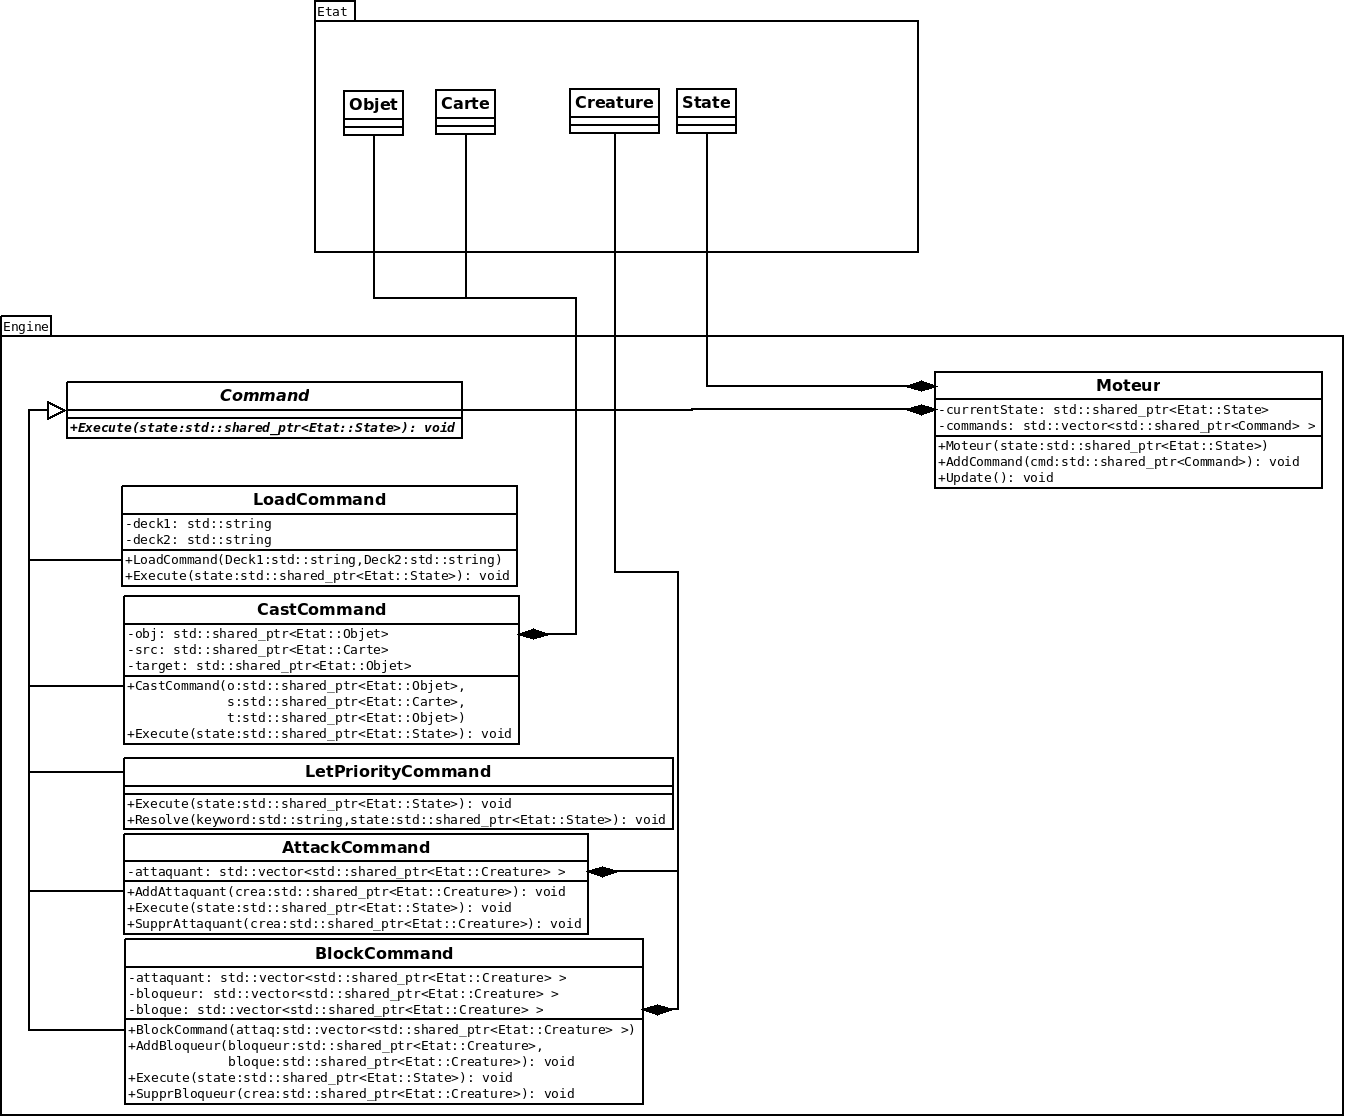
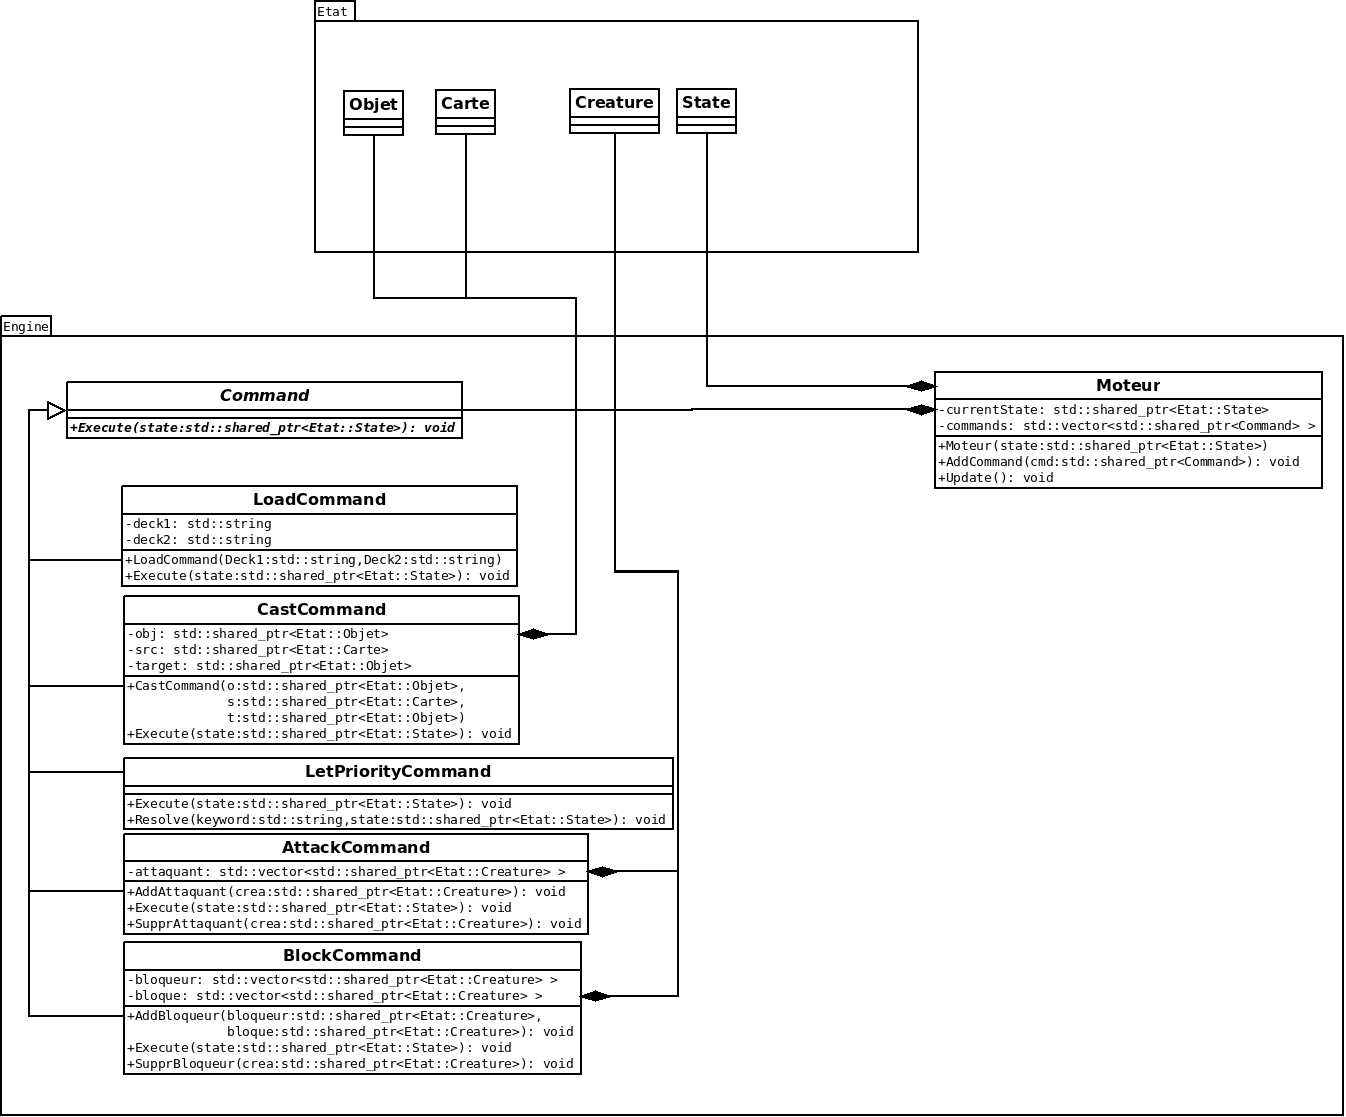
debut IA heuristique

Changed region(s): [[0.0624, 0.8218, 0.4993, 1.0]]

diff --git a/src/shared/Engine/BlockCommand.cpp b/src/shared/Engine/BlockCommand.cpp
@@ -4,10 +4,6 @@
 
 namespace Engine
 {
-    BlockCommand::BlockCommand (std::vector<std::shared_ptr<Etat::Creature> > attaq)
-    {
-        attaquant = attaq;
-    }
     void BlockCommand::SupprBloqueur (std::shared_ptr<Etat::Creature> crea)
     {
         int ind=-1;
@@ -26,6 +22,7 @@ namespace Engine
         bloqueur.push_back(crea_bloqueur);
         bloque.push_back(crea_bloque);
     }
+    
     void BlockCommand::Execute (std::shared_ptr<Etat::State> state)
     {
         // les creatures bloqueuse inflige leur blessure aux creatures bloques
@@ -34,20 +31,20 @@ namespace Engine
          
         // les creatures bloques infliges leurs blessures aux creature bloqueuses
         // dans l'ordre des creatures qui bloque et si ça depasse aux creatures suivantes
-        for( int i = 0 ; i < (int)attaquant.size() ; i++ )
+        for( int i = 0 ; i < (int)state->GetAttaquants().size() ; i++ )
         {
             bool isBlocked = false;
             
             for ( int j = 0 ; j < (int)bloque.size() ; j++ )
-                if ( attaquant[i] == bloque[j] )
+                if ( state->GetAttaquants()[i] == bloque[j] )
                     isBlocked = true;
             
-            int dmgToDeal = attaquant[i]->GetForce();    
+            int dmgToDeal = state->GetAttaquants()[i]->GetForce();    
             
             if ( isBlocked )
             {
                 for ( int j = 0 ; j < (int)bloque.size() ; j++ )
-                    if ( attaquant[i] == bloque[j] && dmgToDeal > 0 )
+                    if ( state->GetAttaquants()[i] == bloque[j] && dmgToDeal > 0 )
                     {
                         if ( dmgToDeal >= bloqueur[j]->GetEndurance() )
                         {

diff --git a/src/shared/IA/IA_heuristique.cpp b/src/shared/IA/IA_heuristique.cpp
@@ -1,0 +1,53 @@
+#include "IA_heuristique.h"
+#include "Engine/BlockCommand.h"
+#include <iostream>
+#include <ctime>
+#include <Engine/CastCommand.h>
+#include <Engine/LetPriorityCommand.h>
+#include <Engine/AttackCommand.h>
+#include <cstdlib>
+#include <ctime>
+
+
+
+
+namespace IA {
+
+    IA_heuristique::IA_heuristique(std::shared_ptr<Etat::State> state, std::shared_ptr<Engine::Moteur> moteur)
+    {
+        currentState = state;
+        engine = moteur;
+
+    }
+
+    void IA_heuristique::Think()
+    {
+        std::vector<int> list_val_cmd;
+        std::vector<std::shared_ptr<Engine::Command> > list_cmd;
+    }
+    
+    std::vector<std::shared_ptr<Engine::Command> > IA_heuristique::GetListCommand()
+    {
+       std::vector<std::shared_ptr<Engine::Command> > sortie;
+       
+       return sortie;
+    }
+    
+    int IA_heuristique::EvalCmd(std::shared_ptr<Engine::Command> cmd)
+    {
+        return 0;
+    }
+    
+    std::shared_ptr<Engine::Command> IA_heuristique::PhaseAttaque()
+    {
+        return std::shared_ptr<Engine::AttackCommand>(new Engine::AttackCommand());
+    }
+    
+    std::shared_ptr<Engine::Command> IA_heuristique::PhaseBloqueur()
+    {
+        return std::shared_ptr<Engine::BlockCommand>(new Engine::BlockCommand());
+    }
+
+}
+
+

diff --git a/src/shared/IA/IA_heuristique.h b/src/shared/IA/IA_heuristique.h
@@ -1,0 +1,34 @@
+#ifndef IA_HEURISTIQUE_H
+#define IA_HEURISTIQUE_H
+
+#include <vector>
+#include <memory>
+
+#include <Etat/State.h>
+#include <Engine/Moteur.h>
+
+namespace IA {
+
+  /// class IA_base - 
+  class IA_heuristique {
+    // Associations
+    // Attributes
+  private:
+    std::shared_ptr<Etat::State> currentState;
+    std::shared_ptr<Engine::Moteur> engine;
+    // Operations
+  public:
+    IA_heuristique (std::shared_ptr<Etat::State> state, std::shared_ptr<Engine::Moteur> moteur);
+    void Think();
+    std::vector<std::shared_ptr<Engine::Command> > GetListCommand(); // eventuellement mettre un std::shared_ptr<Etat::State> en param pour plus tard...
+    int EvalCmd(std::shared_ptr<Engine::Command> cmd);
+    std::shared_ptr<Engine::Command> PhaseAttaque();
+    std::shared_ptr<Engine::Command> PhaseBloqueur();
+    
+    // Setters and Getters
+  };
+
+};
+
+#endif
+

diff --git a/src/shared/Etat/State.h b/src/shared/Etat/State.h
@@ -9,11 +9,13 @@
 namespace Etat {
   class Objet;
   class Carte;
+  class Creature;
   class Joueur;
 }
 
 #include "Objet.h"
 #include "Carte.h"
+#include "Creature.h"
 #include "Joueur.h"
 
 namespace Etat {
@@ -30,6 +32,7 @@ namespace Etat {
     std::vector<std::shared_ptr<Objet> > pile;
     std::vector<std::shared_ptr<Carte> > battlefield;
     int nbJoueur;
+    std::vector<std::shared_ptr<Creature> > list_attaquant;
     // Operations
   public:
     State (int nb = 2);
@@ -47,6 +50,8 @@ namespace Etat {
     int GetPriority () const;
     bool GetPileEmpty () const;
     int GetJoueurTour () const;
+    void AddListAttaquant (std::shared_ptr<Creature> crea);
+    std::vector<std::shared_ptr<Creature> > GetAttaquants () const;
     // Setters and Getters
   };
 

diff --git a/src/Test/Test/TestEngine.cpp b/src/Test/Test/TestEngine.cpp
@@ -159,7 +159,7 @@ namespace Test
                             attaquant.push_back(Ours2);
                             attaquant.push_back(Ours3);
                     
-                            std::shared_ptr<Engine::BlockCommand> bloque (std::shared_ptr<Engine::BlockCommand>(new Engine::BlockCommand(attaquant)));
+                            std::shared_ptr<Engine::BlockCommand> bloque (std::shared_ptr<Engine::BlockCommand>(new Engine::BlockCommand()));
                             bloque->AddBloqueur(Ours1,Ours3);
                             moteur.AddCommand(bloque);
                             

diff --git a/src/shared/Engine/BlockCommand.h b/src/shared/Engine/BlockCommand.h
@@ -24,12 +24,10 @@ namespace Engine {
     // Associations
     // Attributes
   private:
-    std::vector<std::shared_ptr<Etat::Creature> > attaquant;
     std::vector<std::shared_ptr<Etat::Creature> > bloqueur;
     std::vector<std::shared_ptr<Etat::Creature> > bloque;
     // Operations
   public:
-    BlockCommand (std::vector<std::shared_ptr<Etat::Creature> > attaq);
     void AddBloqueur (std::shared_ptr<Etat::Creature> bloqueur, std::shared_ptr<Etat::Creature> bloque);
     void Execute (std::shared_ptr<Etat::State> state);
     void SupprBloqueur (std::shared_ptr<Etat::Creature> crea);

diff --git a/src/shared/IA/IA_base.cpp b/src/shared/IA/IA_base.cpp
@@ -142,7 +142,7 @@ namespace IA {
                 engine->AddCommand(attaque);
                 std::cout<<"on attaque avec tout ce qui peux attaquer"<<std::endl;
                 
-                std::shared_ptr<Engine::BlockCommand> bloque(new Engine::BlockCommand(attaquant));
+                std::shared_ptr<Engine::BlockCommand> bloque(new Engine::BlockCommand());
                 engine->AddCommand(bloque);
                 std::cout<<"on ne bloque pas"<<std::endl;      
                 engine->AddCommand(Past);engine->AddCommand(Past);engine->AddCommand(Past);

diff --git a/src/shared/Engine/AttackCommand.cpp b/src/shared/Engine/AttackCommand.cpp
@@ -25,6 +25,10 @@ namespace Engine
         //std::cout<<attaquant.size()<<std::endl;
         //on engage les creatures attaquantes
         for ( int i = 0 ; i < (int)attaquant.size() ; i++ )
+        {
+            state->AddListAttaquant(attaquant[i]);
             attaquant[i]->SetIsTap(true);
+        }
+        
     }
 }

diff --git a/src/shared/Etat/State.cpp b/src/shared/Etat/State.cpp
@@ -135,4 +135,14 @@ namespace Etat
         return joueur;
     }
     
+    void State::AddListAttaquant(std::shared_ptr<Creature> crea)
+    {
+        list_attaquant.push_back(crea);
+    }
+    
+    std::vector<std::shared_ptr<Creature> > State::GetAttaquants() const
+    {
+        return list_attaquant;
+    }
+    
 };

diff --git a/src/shared/Etat.h b/src/shared/Etat.h
@@ -6,10 +6,10 @@
 #include "Etat/Cout.h"
 #include "Etat/Capacite.h"
 #include "Etat/Carte.h"
+#include "Etat/Creature.h"
 #include "Etat/ManaPool.h"
 #include "Etat/Joueur.h"
 #include "Etat/State.h"
 #include "Etat/Active.h"
 #include "Etat/Declenchee.h"
-#include "Etat/Creature.h"
 #endif

diff --git a/src/shared/IA.h b/src/shared/IA.h
@@ -2,5 +2,6 @@
 #define __IA__H
 
 #include "IA/IA_base.h"
+#include "IA/IA_heuristique.h"
 
 #endif
